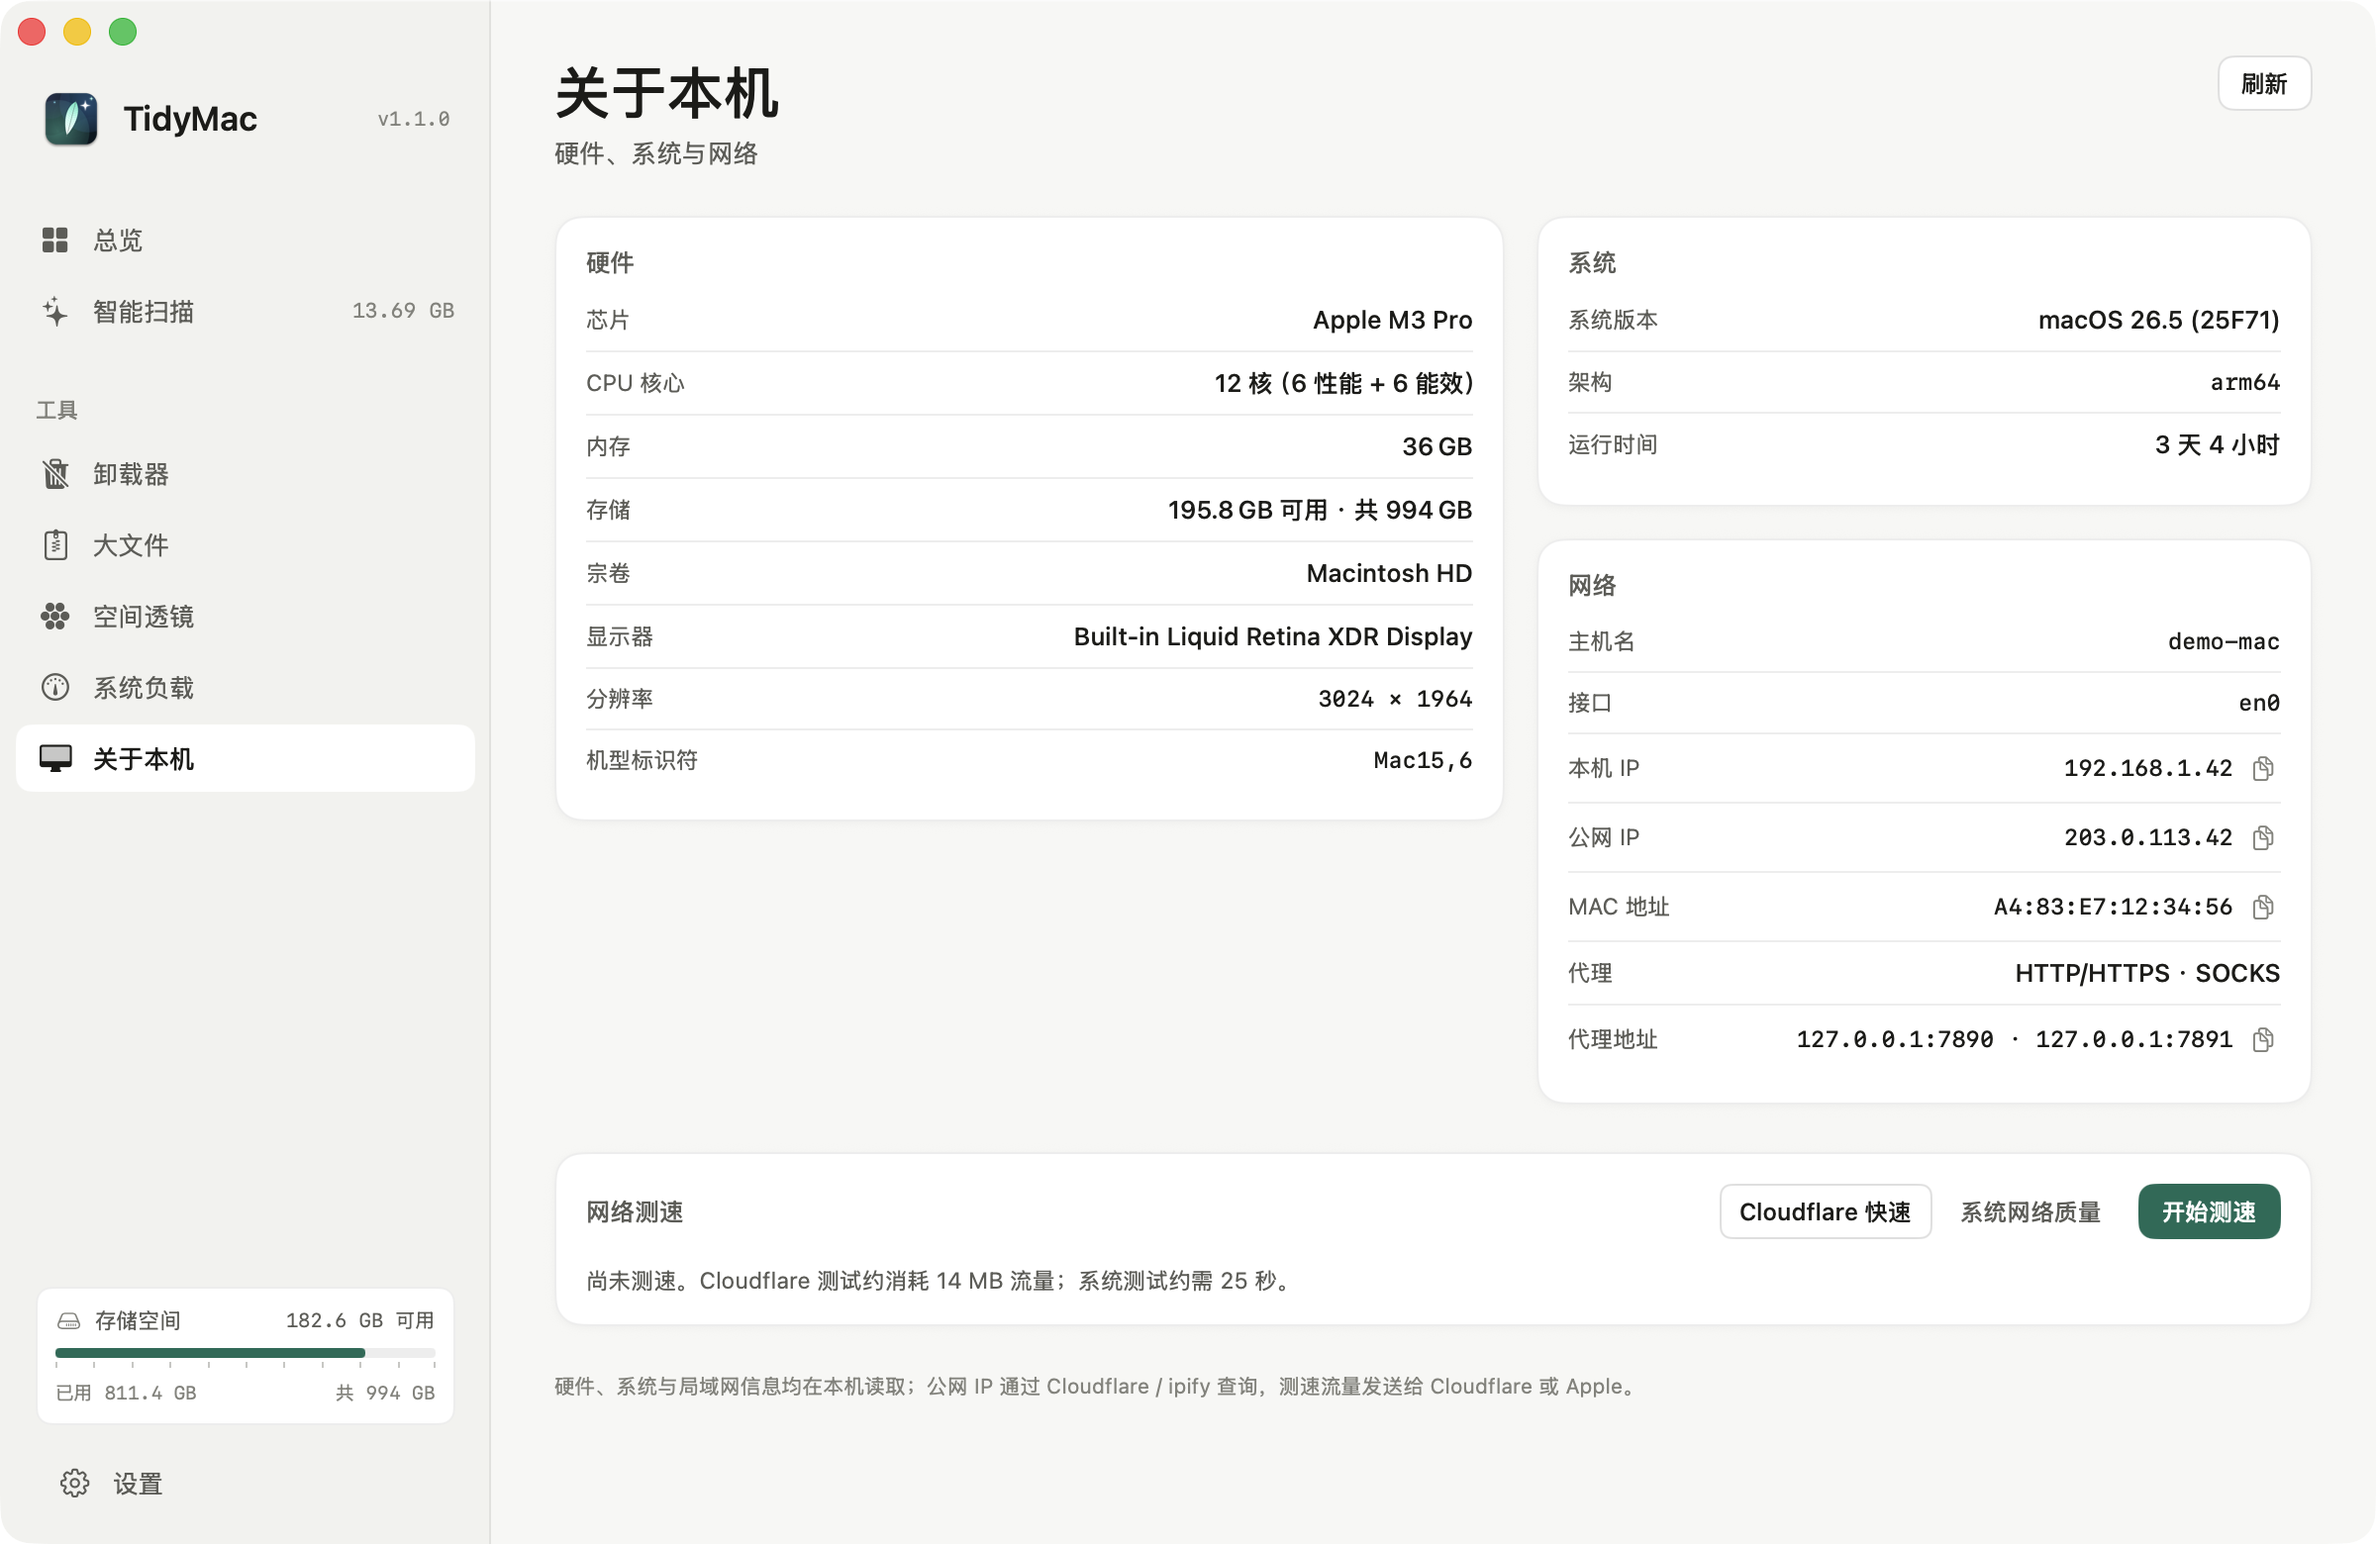
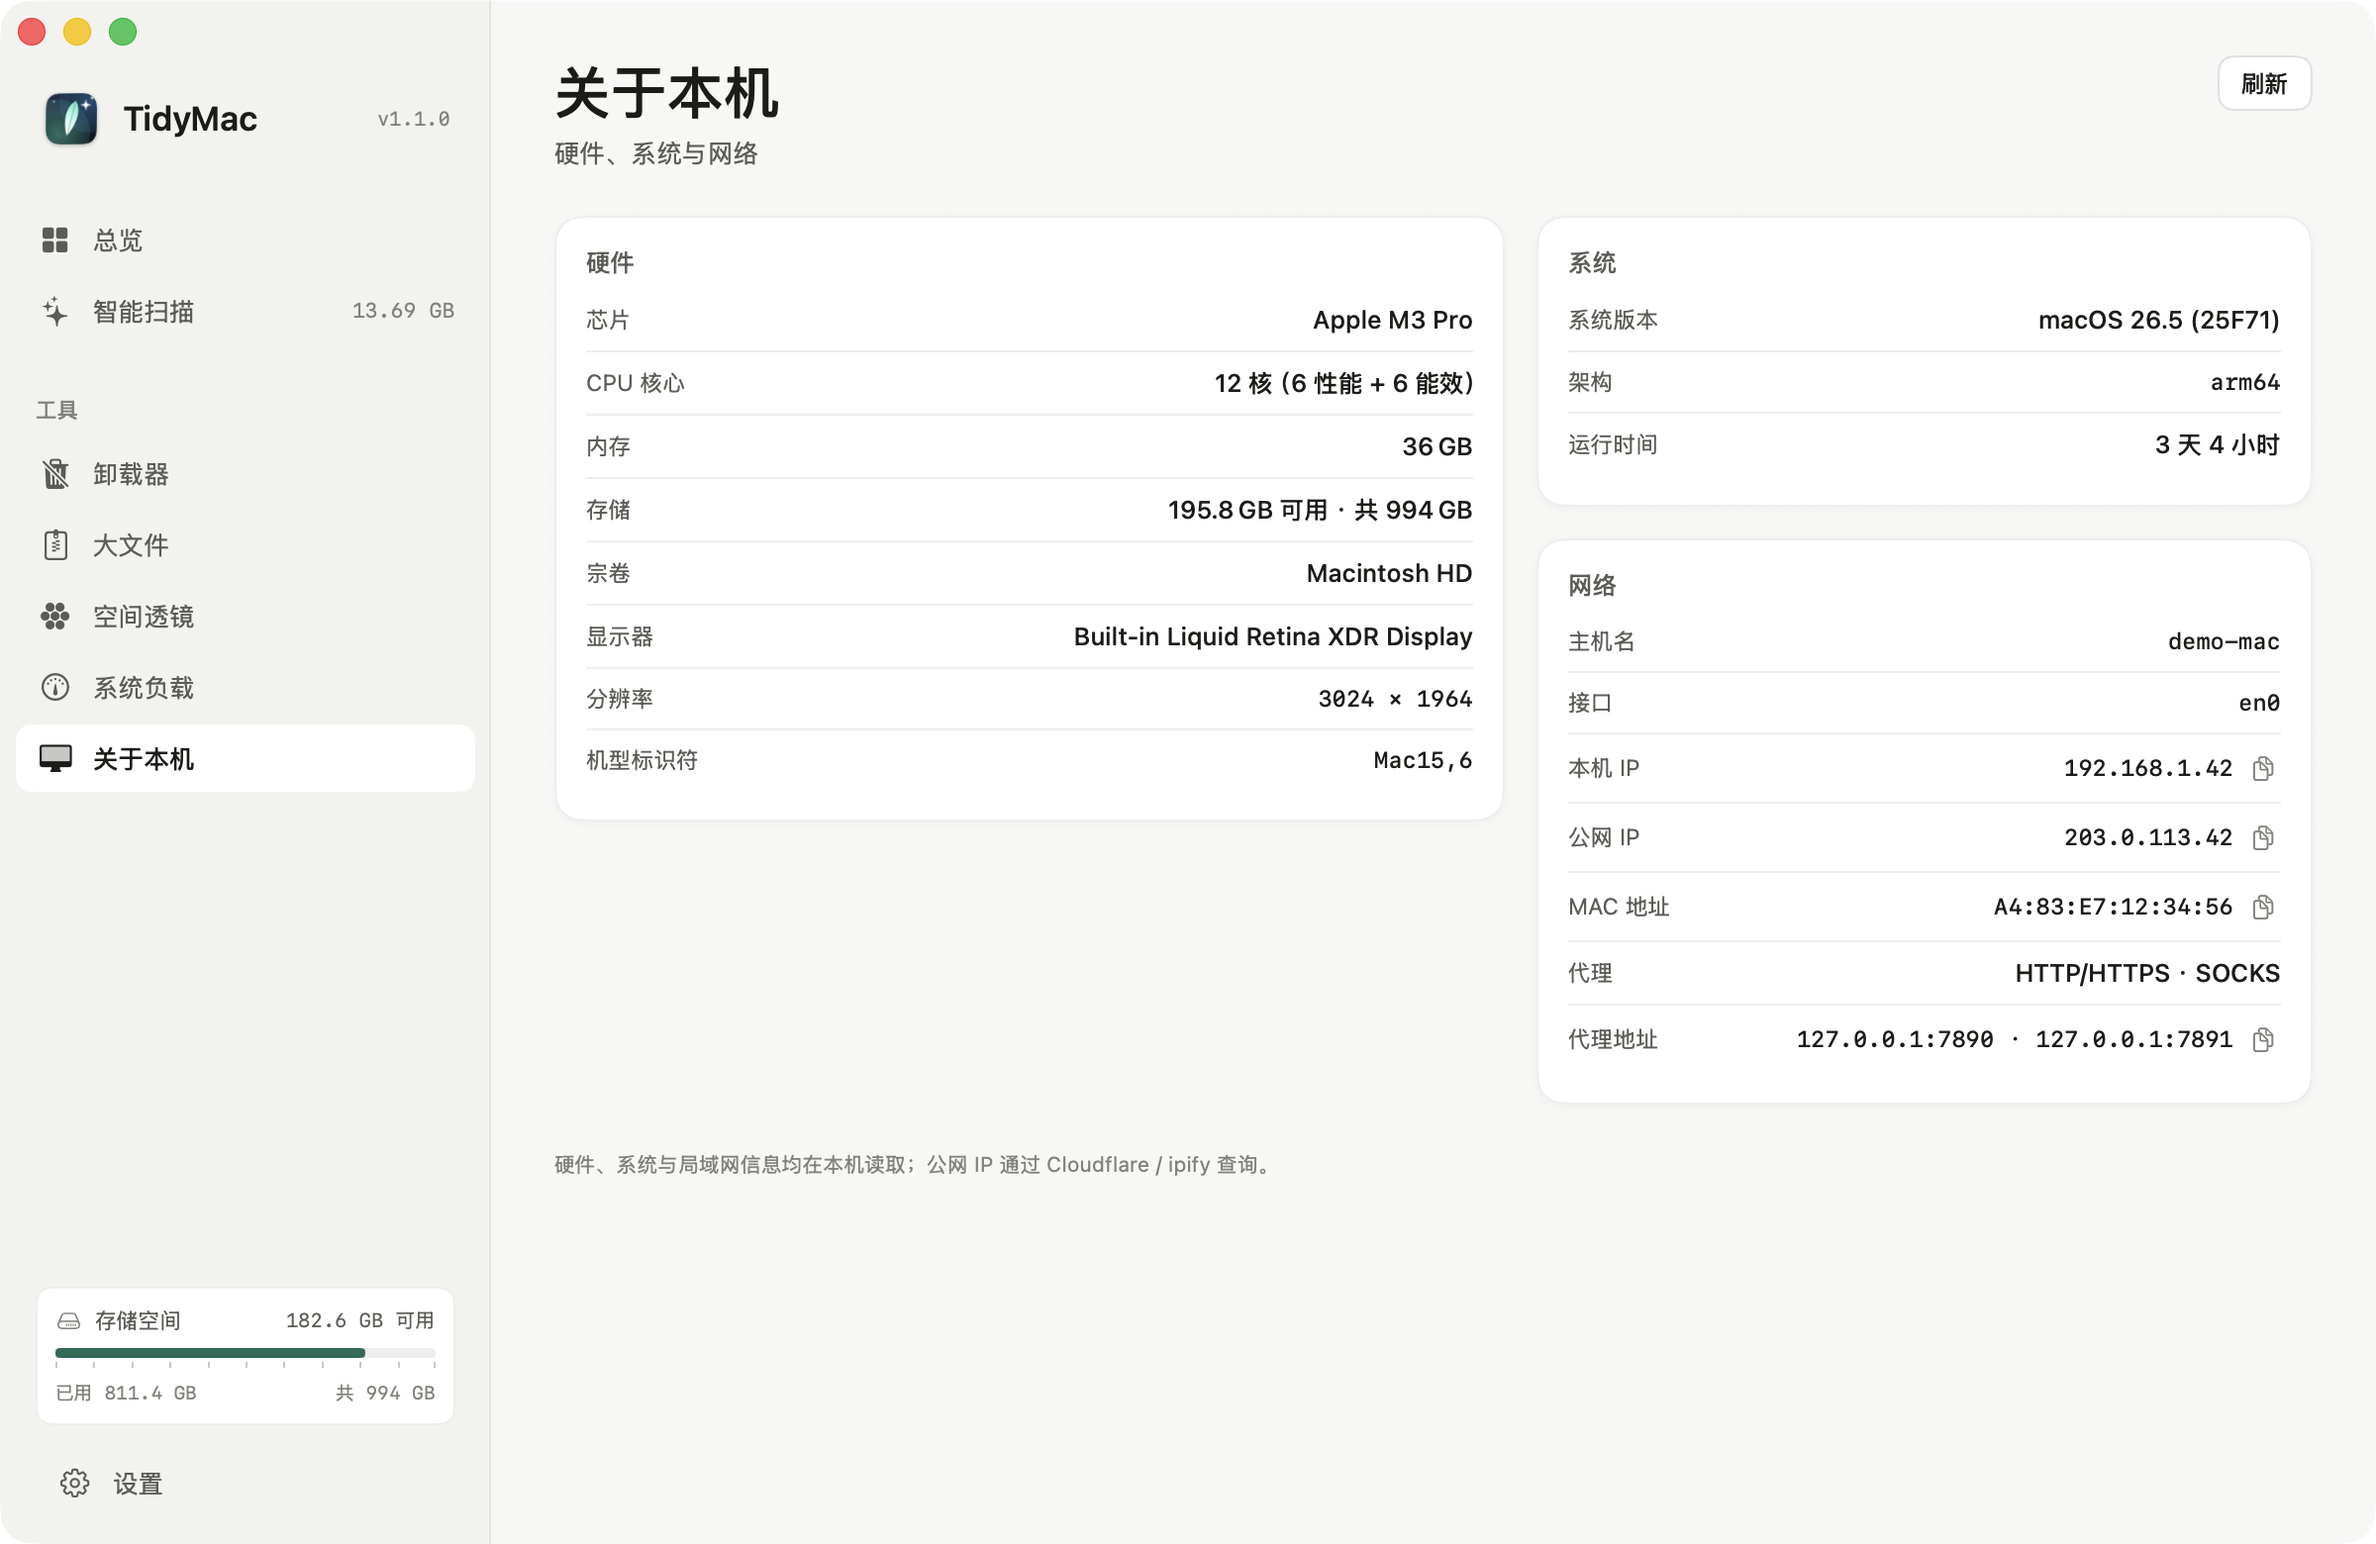
refactor(ui): remove network speed test from about page

diff --git a/Sources/UI/AboutPage.swift b/Sources/UI/AboutPage.swift
@@ -6,12 +6,6 @@ struct AboutPage: View {
     @State private var info = AboutInfo.empty
     @State private var publicIP: String?
     @State private var isFetchingPublicIP = false
-    @State private var speedSource: SpeedTestSource = .cloudflare
-    @State private var speedResult: SpeedTestResult?
-    @State private var speedStatus: String?
-    @State private var isSpeedTesting = false
-    @State private var speedTask: Task<Void, Never>?
-    @State private var speedStartedAt: Date?
 
     var body: some View {
         ScrollView {
@@ -31,9 +25,7 @@ struct AboutPage: View {
                     .frame(width: 392)
                 }
 
-                speedTestCard
-
-                Text(L("硬件、系统与局域网信息均在本机读取；公网 IP 通过 Cloudflare / ipify 查询，测速流量发送给 Cloudflare 或 Apple。"))
+                Text(L("硬件、系统与局域网信息均在本机读取；公网 IP 通过 Cloudflare / ipify 查询。"))
                     .font(.system(size: 10.5))
                     .foregroundStyle(Theme.textTertiary)
             }
@@ -44,10 +36,6 @@ struct AboutPage: View {
         }
         .background(Theme.background)
         .onAppear(perform: reload)
-        .onDisappear {
-            speedTask?.cancel()
-            speedTask = nil
-        }
     }
 
     @MainActor
@@ -68,153 +56,6 @@ struct AboutPage: View {
     }
 
     // MARK: - Cards
-
-    // MARK: - Speed test
-
-    private var speedTestCard: some View {
-        VStack(alignment: .leading, spacing: 14) {
-            HStack(spacing: 8) {
-                Text(L("网络测速"))
-                    .font(.system(size: 12.5, weight: .medium))
-                    .foregroundStyle(Theme.textSecondary)
-                Spacer()
-                HStack(spacing: 4) {
-                    ForEach(SpeedTestSource.allCases) { source in
-                        FilterPill(title: source.title, isSelected: speedSource == source) {
-                            guard !isSpeedTesting else { return }
-                            speedSource = source
-                            speedResult = nil
-                            speedStatus = nil
-                        }
-                    }
-                }
-                .disabled(isSpeedTesting)
-                if isSpeedTesting {
-                    Button(L("取消")) { toggleSpeedTest() }
-                        .buttonStyle(SecondaryButtonStyle(compact: true))
-                } else {
-                    Button(L("开始测速")) { toggleSpeedTest() }
-                        .buttonStyle(PrimaryButtonStyle(compact: true))
-                }
-            }
-
-            if isSpeedTesting {
-                HStack(spacing: 8) {
-                    ProgressView()
-                        .controlSize(.small)
-                    Text(speedStatus ?? L("准备中…"))
-                        .font(.system(size: 11.5))
-                        .foregroundStyle(Theme.textSecondary)
-                    Spacer()
-                    TimelineView(.periodic(from: .now, by: 1)) { context in
-                        if let started = speedStartedAt {
-                            Text(L("已用时 %@ 秒", "\(Int(context.date.timeIntervalSince(started)))"))
-                                .font(Theme.monoFont(10.5))
-                                .foregroundStyle(Theme.textTertiary)
-                        }
-                    }
-                }
-            } else if let result = speedResult {
-                HStack(spacing: 0) {
-                    speedStat(L("延迟"), value: latencyValue(result.latencyMs), unit: "ms")
-                    speedDivider
-                    speedStat(L("下载"), value: mbpsValue(result.downloadMbps), unit: "Mbps")
-                    speedDivider
-                    speedStat(L("上传"), value: mbpsValue(result.uploadMbps), unit: "Mbps")
-                }
-                Text(L("结果仅供参考；测试流量会发送给 Cloudflare 或 Apple。"))
-                    .font(.system(size: 10.5))
-                    .foregroundStyle(Theme.textTertiary)
-            } else {
-                Text(speedStatus ?? L("尚未测速。Cloudflare 测试约消耗 14 MB 流量；系统测试约需 25 秒。"))
-                    .font(.system(size: 11.5))
-                    .foregroundStyle(speedStatus == nil ? Theme.textSecondary : Theme.negative)
-            }
-        }
-        .qyPanel(padding: 16)
-    }
-
-    private func speedStat(_ label: String, value: String, unit: String) -> some View {
-        VStack(alignment: .leading, spacing: 4) {
-            Text(label)
-                .font(.system(size: 11))
-                .foregroundStyle(Theme.textTertiary)
-            HStack(alignment: .firstTextBaseline, spacing: 4) {
-                Text(value)
-                    .font(Theme.monoFont(24, weight: .medium))
-                    .foregroundStyle(Theme.textPrimary)
-                Text(unit)
-                    .font(Theme.monoFont(11))
-                    .foregroundStyle(Theme.textTertiary)
-            }
-        }
-        .frame(maxWidth: .infinity, alignment: .leading)
-    }
-
-    private var speedDivider: some View {
-        Rectangle()
-            .fill(Theme.stroke)
-            .frame(width: 1, height: 36)
-            .padding(.horizontal, 16)
-    }
-
-    private func latencyValue(_ value: Double?) -> String {
-        guard let value else { return "—" }
-        return "\(Int(value.rounded()))"
-    }
-
-    private func mbpsValue(_ value: Double?) -> String {
-        guard let value else { return "—" }
-        return String(format: value >= 100 ? "%.0f" : "%.1f", value)
-    }
-
-    private func toggleSpeedTest() {
-        if isSpeedTesting {
-            speedTask?.cancel()
-            speedTask = nil
-            isSpeedTesting = false
-            speedStartedAt = nil
-            speedStatus = nil
-            return
-        }
-
-        speedResult = nil
-        speedStatus = L("正在测速…")
-        isSpeedTesting = true
-        speedStartedAt = Date()
-        let source = speedSource
-        speedTask = Task { @MainActor in
-            var outcome: Result<SpeedTestResult, Error>?
-            do {
-                switch source {
-                case .cloudflare:
-                    speedStatus = L("正在测试延迟、下载与上传…")
-                    outcome = .success(try await SpeedTestRunner.cloudflare())
-                case .system:
-                    speedStatus = L("正在运行系统网络质量测试（约 25 秒）…")
-                    outcome = .success(try await SpeedTestRunner.systemNetworkQuality())
-                }
-            } catch {
-                outcome = .failure(error)
-            }
-
-            speedStartedAt = nil
-            isSpeedTesting = false
-            if Task.isCancelled {
-                speedStatus = nil
-                return
-            }
-            switch outcome {
-            case .success(let result):
-                speedResult = result
-                speedStatus = nil
-            case .failure(let error):
-                speedStatus = L("测速失败：%@", error.localizedDescription)
-            case .none:
-                speedStatus = nil
-            }
-        }
-    }
 
     private func card(_ title: String, rows: [AboutRow]) -> some View {
         VStack(alignment: .leading, spacing: 0) {

diff --git a/README.md b/README.md
@@ -53,8 +53,7 @@ Also available as a [DMG disk image](https://github.com/welefen/TidyMac/raw/main
 - System: macOS version and build, architecture, uptime
 - Network: hostname, active interface, local IPv4, MAC address (read via SystemConfiguration) and public egress IP (Cloudflare trace, ipify fallback); IP and MAC values have copy buttons
 - When a system proxy is enabled, the Network card adds proxy type (HTTP/HTTPS/SOCKS/PAC) and server address rows with copy buttons
-- Network speed test on demand: Cloudflare quick test (latency / download / upload, about 14 MB) or the macOS `networkQuality` system test
-- Hardware, system and LAN details are read locally; the public IP lookup and speed test only send requests when you load the page or press the corresponding button
+- Hardware, system and LAN details are read locally; the public IP lookup only sends a request when you load the page or press Refresh
 - Demo screenshot:
 
 <img src="screenshots/en/about.png" width="720" alt="About This Mac">

diff --git a/README.zh-CN.md b/README.zh-CN.md
@@ -53,8 +53,7 @@ TidyMac 是一个原生 SwiftUI macOS 应用：扫描系统缓存与开发者垃
 - 系统信息：macOS 版本与 Build、架构、运行时间
 - 网络信息：主机名、活动接口、本机 IPv4、MAC 地址（SystemConfiguration），以及出口公网 IP（Cloudflare trace，ipify 兜底）；IP 与 MAC 地址旁提供复制按钮
 - 系统开启代理时，网络卡片会显示代理类型（HTTP / HTTPS / SOCKS / PAC）与代理地址，支持复制
-- 网络测速按需运行：Cloudflare 快速测速（延迟 / 下载 / 上传，约 14 MB 流量）或 macOS `networkQuality` 系统测速
-- 硬件、系统与局域网信息均在本机读取；公网 IP 与测速仅在进入页面或点击对应按钮时发起请求
+- 硬件、系统与局域网信息均在本机读取；公网 IP 仅在进入页面或点击「刷新」时请求一次
 - 演示数据截图：
 
 <img src="screenshots/zh/about.png" width="720" alt="关于本机">
